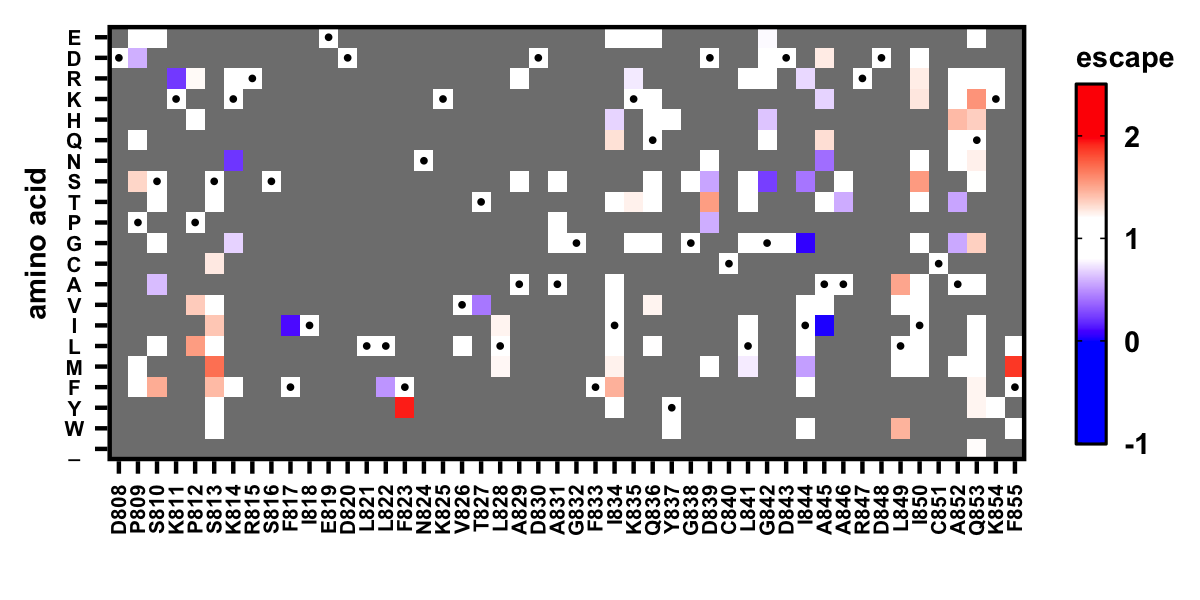
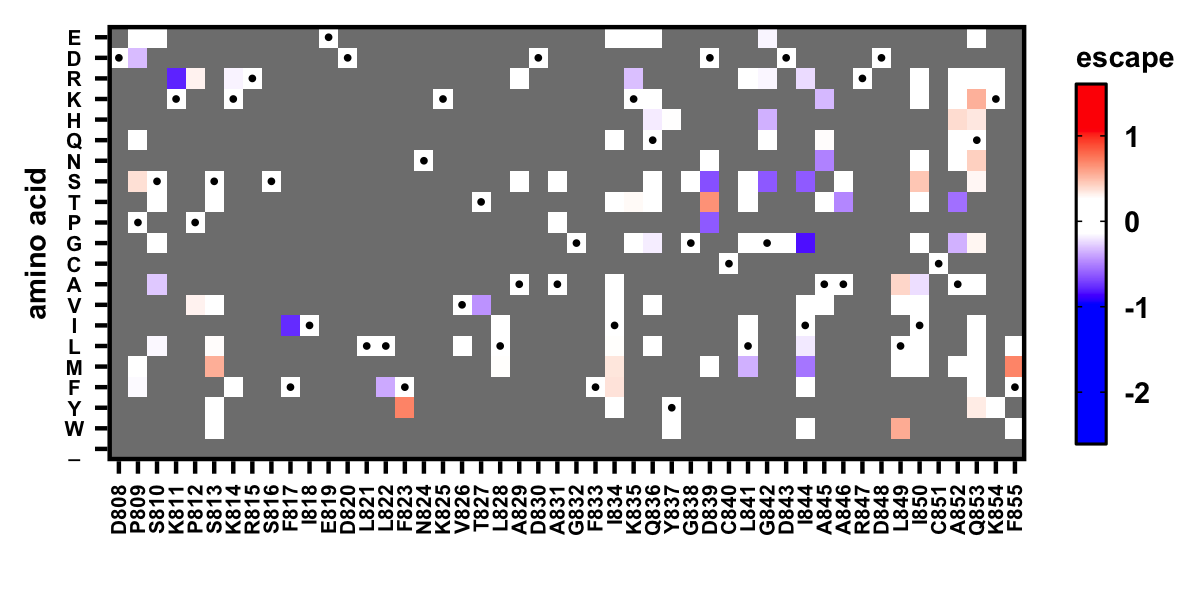
add escape analysis

diff --git a/script/FP_count2fit.py b/script/FP_count2fit.py
@@ -2,6 +2,8 @@
 import sys
 import pandas as pd
 import numpy as np
+import statsmodels.api as sm
+import statsmodels.formula.api as smf
 
 def count_to_freq(df, colname):
     df[colname+'_freq'] = (df[colname]+1)/(df[colname].sum()+len(df))
@@ -20,6 +22,11 @@ def fitness_calculate(df, rep, freq_cutoff, passage):
     print ("nonsense fit = %f" % fit_nonsense)
     df['fit_'+passage+"_"+rep] = (df['fit_'+passage+"_"+rep]-fit_nonsense)/(fit_silent-fit_nonsense)
     return (df)
+
+def cal_escape_score(df, x, y, escape):
+  result = smf.ols(y,x).fit()
+  df[escape] = result.resid
+  return (df)
 
 def wrapper(count_file, freq_cutoff):
     print ('reading: %s' % count_file)
@@ -41,15 +48,12 @@ def wrapper(count_file, freq_cutoff):
     df = fitness_calculate(df, 'Rep2', freq_cutoff, 'P1-Calu3_CoV44-79')
     df = fitness_calculate(df, 'Rep1', freq_cutoff, 'P1-E6_CoV44-79')
     df = fitness_calculate(df, 'Rep2', freq_cutoff, 'P1-E6_CoV44-79')
-    #df = fitness_calculate(df, 'Rep1', freq_cutoff, 'P0')
-    #df = fitness_calculate(df, 'Rep2', freq_cutoff, 'P0')
     df['fit_P1-Calu3_noAb'] = (df['fit_P1-Calu3_noAb_Rep1'] + df['fit_P1-Calu3_noAb_Rep2'])/2
     df['fit_P1-E6_noAb'] = (df['fit_P1-E6_noAb_Rep1'] + df['fit_P1-E6_noAb_Rep2'])/2
     df['fit_P1-Calu3_CoV44-62'] = (df['fit_P1-Calu3_CoV44-62_Rep1'] + df['fit_P1-Calu3_CoV44-62_Rep2'])/2
     df['fit_P1-E6_CoV44-62'] = (df['fit_P1-E6_CoV44-62_Rep1'] + df['fit_P1-E6_CoV44-62_Rep2'])/2
     df['fit_P1-Calu3_CoV44-79'] = (df['fit_P1-Calu3_CoV44-79_Rep1'] + df['fit_P1-Calu3_CoV44-79_Rep2'])/2
     df['fit_P1-E6_CoV44-79'] = (df['fit_P1-E6_CoV44-79_Rep1'] + df['fit_P1-E6_CoV44-79_Rep2'])/2
-    #df['fit_P0'] = (df['fit_P0_Rep1'] + df['fit_P0_Rep2'])/2
     return (df)
 
 def main():
@@ -66,54 +70,12 @@ def main():
     df_by_resi = df_by_resi[df_by_resi['mut_class'] != 'WT']
     df_by_resi = df_by_resi[df_by_resi['mut_class'] != 'silent']
     df_by_resi = df_by_resi[df_by_resi['mut_class'] != 'nonsense']
-    #df_by_resi_mean_P0  = df_by_resi.groupby('resi')['fit_P0'].mean().reset_index(name='mean_fit_P0')
     df_by_resi_mean_P1_Calu3_noAb  = df_by_resi.groupby('resi')['fit_P1-Calu3_noAb'].mean().reset_index(name='mean_fit_P1-Calu3_noAb')
     df_by_resi_mean_P1_E6_noAb  = df_by_resi.groupby('resi')['fit_P1-E6_noAb'].mean().reset_index(name='mean_fit_P1-E6_noAb')
     df_by_resi_mean_P1_Calu3_CoV44_62  = df_by_resi.groupby('resi')['fit_P1-Calu3_CoV44-62'].mean().reset_index(name='mean_fit_P1-Calu3_CoV44-62')
     df_by_resi_mean_P1_E6_CoV44_62  = df_by_resi.groupby('resi')['fit_P1-E6_CoV44-62'].mean().reset_index(name='mean_fit_P1-E6_CoV44-62')
     df_by_resi_mean_P1_Calu3_CoV44_79  = df_by_resi.groupby('resi')['fit_P1-Calu3_CoV44-79'].mean().reset_index(name='mean_fit_P1-Calu3_CoV44-79')
     df_by_resi_mean_P1_E6_CoV44_79  = df_by_resi.groupby('resi')['fit_P1-E6_CoV44-79'].mean().reset_index(name='mean_fit_P1-E6_CoV44-79')
-    #df_by_resi_mean = pd.merge(df_by_resi_mean_P0, df_by_resi_mean_P1_Calu3_noAb, on='resi', how='outer')
-    df_by_resi_mean = pd.merge(df_by_resi_mean_P1_Calu3_noAb, df_by_resi_mean_P1_E6_noAb, on='resi', how='outer')
-    df_by_resi_mean = pd.merge(df_by_resi_mean, df_by_resi_mean_P1_Calu3_CoV44_62, on='resi', how='outer')
-    df_by_resi_mean = pd.merge(df_by_resi_mean, df_by_resi_mean_P1_E6_CoV44_62, on='resi', how='outer')
-    df_by_resi_mean = pd.merge(df_by_resi_mean, df_by_resi_mean_P1_Calu3_CoV44_79, on='resi', how='outer')
-    df_by_resi_mean = pd.merge(df_by_resi_mean, df_by_resi_mean_P1_E6_CoV44_79, on='resi', how='outer')
-    df_by_resi_count = df_by_resi.groupby('resi').size().reset_index(name='count')
-    df_by_resi = pd.merge(df_by_resi_mean, df_by_resi_count, on='resi', how='outer')
-    #df = fitness_calculate(df, 'Rep1', freq_cutoff, 'P0')
-    #df = fitness_calculate(df, 'Rep2', freq_cutoff, 'P0')
-    df['fit_P1-Calu3_noAb'] = (df['fit_P1-Calu3_noAb_Rep1'] + df['fit_P1-Calu3_noAb_Rep2'])/2
-    df['fit_P1-E6_noAb'] = (df['fit_P1-E6_noAb_Rep1'] + df['fit_P1-E6_noAb_Rep2'])/2
-    df['fit_P1-Calu3_CoV44-62'] = (df['fit_P1-Calu3_CoV44-62_Rep1'] + df['fit_P1-Calu3_CoV44-62_Rep2'])/2
-    df['fit_P1-E6_CoV44-62'] = (df['fit_P1-E6_CoV44-62_Rep1'] + df['fit_P1-E6_CoV44-62_Rep2'])/2
-    df['fit_P1-Calu3_CoV44-79'] = (df['fit_P1-Calu3_CoV44-79_Rep1'] + df['fit_P1-Calu3_CoV44-79_Rep2'])/2
-    df['fit_P1-E6_CoV44-79'] = (df['fit_P1-E6_CoV44-79_Rep1'] + df['fit_P1-E6_CoV44-79_Rep2'])/2
-    df['fit_P0'] = (df['fit_P0_Rep1'] + df['fit_P0_Rep2'])/2
-    return (df)
-
-def main():
-    freq_cutoff = 0.0001
-    outfile_1 = "result/FP_DMS_fit.tsv"
-    outfile_2 = "result/FP_DMS_fit_by_resi.tsv"
-    df = wrapper("result/FP_DMS_count_aa.tsv", freq_cutoff)
-    print ('writing: %s' % outfile_1)
-    df.to_csv(outfile_1, sep="\t", index=False)
-    df['resi'] = df['mut'].str[0:-1]
-    all_resi   = df[df['mut_class'] != 'WT'].groupby('resi').size().reset_index()
-    df_by_resi = df
-    df_by_resi = df_by_resi[df_by_resi['avg_ipt_freq'] >= freq_cutoff]
-    df_by_resi = df_by_resi[df_by_resi['mut_class'] != 'WT']
-    df_by_resi = df_by_resi[df_by_resi['mut_class'] != 'silent']
-    df_by_resi = df_by_resi[df_by_resi['mut_class'] != 'nonsense']
-    #df_by_resi_mean_P0  = df_by_resi.groupby('resi')['fit_P0'].mean().reset_index(name='mean_fit_P0')
-    df_by_resi_mean_P1_Calu3_noAb  = df_by_resi.groupby('resi')['fit_P1-Calu3_noAb'].mean().reset_index(name='mean_fit_P1-Calu3_noAb')
-    df_by_resi_mean_P1_E6_noAb  = df_by_resi.groupby('resi')['fit_P1-E6_noAb'].mean().reset_index(name='mean_fit_P1-E6_noAb')
-    df_by_resi_mean_P1_Calu3_CoV44_62  = df_by_resi.groupby('resi')['fit_P1-Calu3_CoV44-62'].mean().reset_index(name='mean_fit_P1-Calu3_CoV44-62')
-    df_by_resi_mean_P1_E6_CoV44_62  = df_by_resi.groupby('resi')['fit_P1-E6_CoV44-62'].mean().reset_index(name='mean_fit_P1-E6_CoV44-62')
-    df_by_resi_mean_P1_Calu3_CoV44_79  = df_by_resi.groupby('resi')['fit_P1-Calu3_CoV44-79'].mean().reset_index(name='mean_fit_P1-Calu3_CoV44-79')
-    df_by_resi_mean_P1_E6_CoV44_79  = df_by_resi.groupby('resi')['fit_P1-E6_CoV44-79'].mean().reset_index(name='mean_fit_P1-E6_CoV44-79')
-    #df_by_resi_mean = pd.merge(df_by_resi_mean_P0, df_by_resi_mean_P1_Calu3_noAb, on='resi', how='outer')
     df_by_resi_mean = pd.merge(df_by_resi_mean_P1_Calu3_noAb, df_by_resi_mean_P1_E6_noAb, on='resi', how='outer')
     df_by_resi_mean = pd.merge(df_by_resi_mean, df_by_resi_mean_P1_Calu3_CoV44_62, on='resi', how='outer')
     df_by_resi_mean = pd.merge(df_by_resi_mean, df_by_resi_mean_P1_E6_CoV44_62, on='resi', how='outer')
@@ -124,7 +86,6 @@ def main():
     df_by_resi = pd.merge(all_resi, df_by_resi, on='resi', how='outer')
     df_by_resi = df_by_resi.sort_values(by='resi', key=lambda x:x.str[1::].astype(int))
     df_by_resi['pos'] = df_by_resi['resi'].str[1::].astype(int)
-    #df_by_resi = df_by_resi[['resi','pos','count','mean_fit_P0','mean_fit_P1-Calu3_noAb','mean_fit_P1-E6_noAb',
     df_by_resi = df_by_resi[['resi','pos','count','mean_fit_P1-Calu3_noAb','mean_fit_P1-E6_noAb',
                              'mean_fit_P1-Calu3_CoV44-62','mean_fit_P1-E6_CoV44-62',
                              'mean_fit_P1-Calu3_CoV44-79','mean_fit_P1-E6_CoV44-79']]
